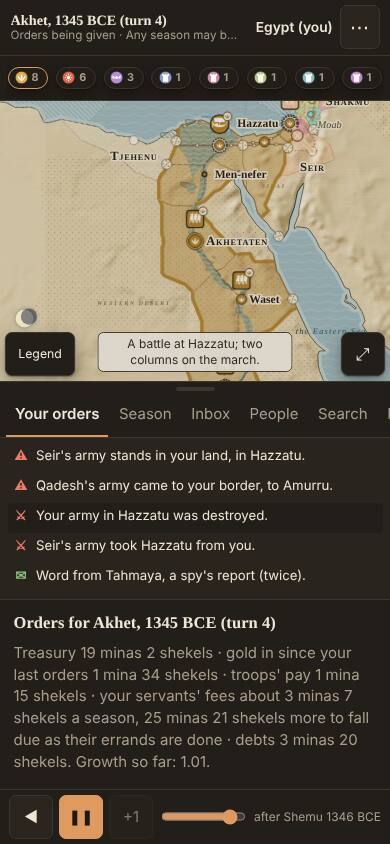
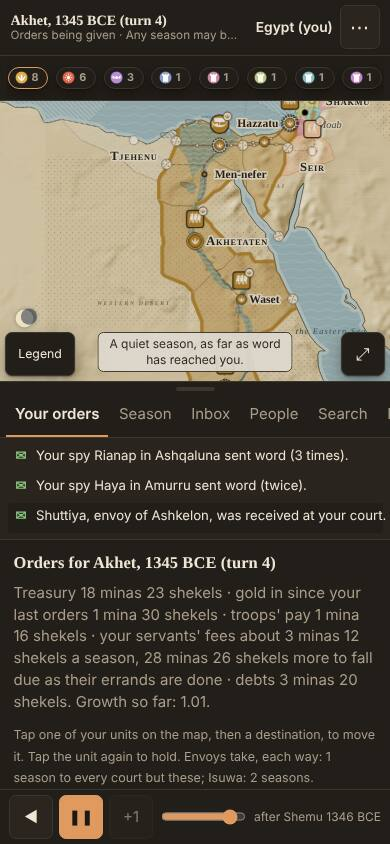
Item 18b, part 1: the design check's and the stand-in's notes (no ending numbers on the start page, the absent kings named, a spy's line says whose and where, word placed at the court, the map in play guarded by a test)
Claude-Session: https://claude.ai/code/session_0118T4FHZseL8sYnPy6XZrwb

Changed region(s): [[0.0308, 0.5237, 0.9846, 0.9242], [0.2769, 0.4005, 0.7077, 0.4313], [0.7077, 0.1232, 0.8308, 0.1848]]

diff --git a/src/engine/src/rules/brief.ts b/src/engine/src/rules/brief.ts
@@ -2,7 +2,7 @@
  * The season brief ("The player's screen", build order item 18b, "Four questions, in order": what happened to me?): at most
  * six lines, most urgent first, of what this season brought the seat. A foreign army in its land or at its border, a
  * battle of its own, a letter or envoy waiting, a promise kept or broken, an errand done, gold or grain running short; the
- * world's other moves stay in the season's record. Drawn from the seat's own view alone, so it says only what the court
+ * world's other moves stay in the season's news. Drawn from the seat's own view alone, so it says only what the court
  * knows, and the one source of both the screen's brief and the model's request ("A model seat reads the same"): each line
  * names its place, and what answers it, for the screen to jump to.
  */
@@ -19,7 +19,7 @@ import { upper } from "./wording.ts";
 export const BriefKindValues = ["Threat", "Battle", "Word", "Promise", "Errand", "Short"] as const;
 export type BriefKind = (typeof BriefKindValues)[number];
 
-/** What answers a line: the seat's troops, the season's record (its news), its court and servants, or its treasury. */
+/** What answers a line: the seat's troops, the season's news, its court and servants, or its treasury. */
 export const BriefAnswerValues = ["Troops", "News", "Court", "Treasury"] as const;
 export type BriefAnswer = (typeof BriefAnswerValues)[number];
 
@@ -32,7 +32,7 @@ export interface BriefLine {
   answer: BriefAnswer;
 }
 
-/** The most lines a brief holds; past it, the last says how many more wait in the season's record. */
+/** The most lines a brief holds; past it, the last says how many more wait in this season's news. */
 export const MaxBrief = 6;
 
 const name = (id: string): string => WorldMap.default.get(id).name;
@@ -92,9 +92,10 @@ export function seasonBrief(v: SeatView): BriefLine[] {
   }
 
   // The season's news that waits on the king: a letter or envoy, a promise kept or broken, an errand done.
+  // Word and errands come to the court, where the map shows them; a promise of gold has no one place.
   for (const i of v.inbox) {
-    const line = newsLine(i);
-    if (line !== null) add(line.kind, line.text, null, line.answer);
+    const line = newsLine(i, v);
+    if (line !== null) add(line.kind, line.text, line.kind === "Promise" || v.courtAt === "" ? null : v.courtAt, line.answer);
   }
 
   // Gold or grain running short.
@@ -121,18 +122,23 @@ export function seasonBrief(v: SeatView): BriefLine[] {
   const sorted = merged.map((l, i) => [l, i] as const).sort((a, b) => order(a[0].kind) - order(b[0].kind) || a[1] - b[1]).map(([l]) => l);
   if (sorted.length <= MaxBrief) return sorted;
   const rest = sorted.length - (MaxBrief - 1);
-  return [...sorted.slice(0, MaxBrief - 1), { kind: sorted[MaxBrief - 1].kind, text: `And ${rest} more this season, in the season's record.`, at: null, answer: "News" }];
+  return [...sorted.slice(0, MaxBrief - 1), { kind: sorted[MaxBrief - 1].kind, text: `And ${rest} more in this season's news.`, at: null, answer: "News" }];
 }
 
-/** A line of the season's news for the brief, by its kind and title, or null for what stays in the record. */
-function newsLine(i: InboxItem): { kind: BriefKind; text: string; answer: BriefAnswer } | null {
+/** A line of the season's news for the brief, by its kind and title, or null for what stays in the news alone. */
+function newsLine(i: InboxItem, v: SeatView): { kind: BriefKind; text: string; answer: BriefAnswer } | null {
   switch (i.kind) {
     case "Audience":
       return { kind: "Word", text: `${i.title.replace(/^Audience with /u, "")}, was received at your court.`, answer: "News" };
     case "EnvoyReport":
       return { kind: "Word", text: `${i.title} with his report.`, answer: "News" };
-    case "SpyReport":
-      return { kind: "Word", text: `${i.title}, a spy's report.`, answer: "News" };
+    case "SpyReport": {
+      // Who sent it, and where the court posted him, as its own servants' list says.
+      const spy = [...v.court, ...v.known].find((c) => c.id === i.subject) ?? null;
+      const post = spy?.errandWhere ?? null;
+      const at = post === null ? "" : WorldMap.default.exists(post) ? ` in ${name(post)}` : ` at ${powerName(post)}`;
+      return { kind: "Word", text: spy !== null ? `Your spy ${spy.name}${at} sent word.` : `${i.title}, a spy's report.`, answer: "News" };
+    }
     case "Tablet":
       return { kind: "Word", text: "A tablet you ordered is ready.", answer: "News" };
     case "Candidates":
@@ -152,7 +158,7 @@ const PromiseTitles: ReadonlySet<string> = new Set(["A debt repaid to you", "A d
 /** The notices of an errand done or ended: a servant home or gone, an envoy let go, and gold brought home. */
 const ErrandTitles: ReadonlySet<string> = new Set(["Agent returns", "Gold brought home", "A servant leaves", "Envoy released"]);
 
-/** A notice's first sentence, which names who and what: the rest stays in the season's record. */
+/** A notice's first sentence, which names who and what: the rest stays in the season's news. */
 function firstSentence(body: string): string {
   const end = body.search(/[.!?](\s|$)/u);
   return end < 0 ? `${body.trim()}.` : body.slice(0, end + 1).trim();

diff --git a/src/game/test/first-game.test.ts b/src/game/test/first-game.test.ts
@@ -1,5 +1,5 @@
 import { describe, test } from "vitest";
-import { FirstGameAbsent, FirstGamePowers, Views, firstGameConfig, isFirstGame, newGame, newGameConfig } from "@amarna/engine";
+import { FirstGameAbsent, FirstGamePowers, TurnEngine, Views, WorldMap, firstGameConfig, isFirstGame, newGame, newGameConfig } from "@amarna/engine";
 import { GameRunner, ScriptMind, TemplateNarrator, playGame } from "@amarna/game";
 import { Assert } from "../../engine/test/support.ts";
 import { scriptSeats } from "./small-world.ts";
@@ -24,6 +24,20 @@ describe("FirstGameTests", () => {
     Assert.contains("Egypt, Hatti and Mitanni hold their thrones", s.events[0].text);
     // The short curve, with a cap near thirty.
     Assert.true(s.finalSeason !== null && s.finalSeason <= 32);
+  });
+
+  // The map in play is set by each game as it begins and as its engine is built, so games of both kinds in one process
+  // ("Same seed, same game") never play on each other's map.
+  test("A first game and a full game in one process each play on their own map", () => {
+    const first = newGame(2, firstGameConfig());
+    Assert.true(WorldMap.default.outside.size > 0);
+    Assert.true(WorldMap.default.isAbsent("Babylonia"));
+    const full = newGame(2);
+    Assert.equal(0, WorldMap.default.outside.size);
+    Assert.true(new TurnEngine(first).map.landProvinces.length < WorldMap.full.landProvinces.length);
+    Assert.true(WorldMap.default.isAbsent("Babylonia"));
+    new TurnEngine(full);
+    Assert.false(WorldMap.default.isAbsent("Babylonia"));
   });
 
   test("The first game plays to its end and replays exactly", async () => {

diff --git a/src/engine/src/rules/first-game.ts b/src/engine/src/rules/first-game.ts
@@ -71,10 +71,10 @@ export function isFirstGame(c: GameConfig): boolean {
 
 /**
  * Leaves the absent powers out of a new game, before its first season: their land unruled and long known so to every
- * court, their troops, tablets, debts and claims gone, their people with them (a servant of a present court standing at
- * an absent one is at home instead), and every present court's ties and every province's loyalty to them gone. The walls
- * and the people of their land stay where they are, since the land itself is still there; nobody keeps its works, as
- * nobody orders them kept. Every court starts knowing who is in the game: an absent power is no news, and no fall.
+ * court, and beyond the map the game is played on (`WorldMap.play`), so nothing moves, travels, grows or rises there;
+ * their troops, tablets, debts and claims gone, their people with them (a servant of a present court standing at an
+ * absent one is at home instead), and every present court's ties and every province's loyalty to them gone. Every court
+ * starts knowing who is in the game: an absent power is no news, and no fall.
  */
 export function leaveOut(s: GameState, m: WorldMap, absent: readonly Power[]): void {
   const out = new Set(absent);

diff --git a/src/web/src/components/GameChoice.tsx b/src/web/src/components/GameChoice.tsx
@@ -8,14 +8,14 @@ const Games: readonly { id: GameKind; name: string; text: string; length: string
   {
     id: "first",
     name: "The first game",
-    text: "Egypt, Hatti and Mitanni, with the cities of Syria and Canaan and the chiefs between them; the other powers are absent. Every rule as in the full game.",
-    length: "an evening: the age often ends in about 20 seasons, never past about 30",
+    text: "Egypt, Hatti and Mitanni, with the cities of Syria and Canaan and the chiefs between them; Babylonia, Assyria, Arzawa and Alashiya sit this one out. Every rule as in the full game.",
+    length: "an evening: a short age",
   },
   {
     id: "full",
     name: "The full game",
     text: "All seven Great Kings and every city-state and chief between them, on the whole map.",
-    length: "a few evenings: the age often ends in about 80 seasons",
+    length: "a few evenings: a long age",
   },
 ];
 

diff --git a/src/web/src/styles/brief.css b/src/web/src/styles/brief.css
@@ -1,4 +1,4 @@
-/* The season brief (item 18b): what this season brought the seat, above the panel's tabs while its orders are open. Each
+/* The season brief (item 18b): what this season brought the seat, under the panel's tabs while its orders are open. Each
    line has its own icon and word as well as its colour; the colours are the theme's own tokens, so dark mode follows. */
 .brief { flex: none; border-bottom: 1px solid var(--line); padding: .35rem .5rem .4rem; background: var(--paper); max-height: 40%; overflow: auto; }
 .brief ul { list-style: none; margin: 0; padding: 0; }

diff --git a/src/web/src/components/SeasonBrief.tsx b/src/web/src/components/SeasonBrief.tsx
@@ -3,7 +3,7 @@ import { briefRows, type BriefRow } from "../ui/brief.ts";
 import { shown } from "../ui/names.ts";
 
 /**
- * The season brief (item 18b): at most six lines of what this season brought the seat, most urgent first, above the
+ * The season brief (item 18b): at most six lines of what this season brought the seat, most urgent first, under the
  * panel's tabs while its orders are open. A tap on a line shows its place on the map and opens what answers it.
  */
 export function SeasonBrief({ view, onLine }: { view: SeatView; onLine: (row: BriefRow) => void }) {

diff --git a/src/engine/src/model/config.ts b/src/engine/src/model/config.ts
@@ -20,7 +20,7 @@ export interface GameConfig {
   openAge: boolean;
   /**
    * The powers the map starts with that are absent from this game (item 18b, "The first game"): left out before its first
-   * season, their land unruled (`rules/first-game.ts`). None in the full game.
+   * season, their land beyond the game's map (`rules/first-game.ts`). None in the full game.
    */
   absent: string[];
   /**

diff --git a/docs/rounds/2026-11-19-players-screen-1.md b/docs/rounds/2026-11-19-players-screen-1.md
@@ -12,7 +12,7 @@ and read.
   cap drawn from 28 to 32. A table setting, `GameConfig.absent`, empty in the full game.
 - **The absent land lies beyond the first game's map** (`WorldMap.play`): no road leads there, and nothing grows, moves
   or rises in it. The seat view, the request and the rulebook's opening leave the absent powers out.
-- **The season brief**, the first of the four questions: at most six lines, most urgent first, above the panel's tabs
+- **The season brief**, the first of the four questions: at most six lines, most urgent first, under the panel's tabs
   while the seat's orders are open, each line with its icon and word, a tap showing its place on the map and opening
   what answers it. The model's orders request gives the same lines in the same order, from the same function, and a test
   fails where they differ.
@@ -25,14 +25,15 @@ The start page, before and after (desktop light, phone dark):
 ![Before: the start page](<media/2026-11-19-players-screen-1/before-desktop-light-start.jpg>) ![After: "Which game?" first](<media/2026-11-19-players-screen-1/after-desktop-light-start.jpg>)
 ![Before, phone dark](<media/2026-11-19-players-screen-1/before-phone-dark-start.jpg>) ![After, phone dark](<media/2026-11-19-players-screen-1/after-phone-dark-start.jpg>)
 
-Egypt's fourth season, before (the full game, no brief) and after (the first game, its brief above the tabs), at each size
-and in each theme; and a line tapped (desktop light): the map at Hazzatu and the orders at the troops.
+Egypt's fourth season, before (the full game, no brief) and after (the first game, its brief under the tabs), at each size
+and in each theme (each a game of its own, so its season differs); and a battle line tapped (desktop dark): the map at
+Hazzatu and the orders at the troops.
 
 ![Before, phone light](<media/2026-11-19-players-screen-1/before-phone-light-season.jpg>) ![After, phone light](<media/2026-11-19-players-screen-1/after-phone-light-season.jpg>)
 ![Before, phone dark](<media/2026-11-19-players-screen-1/before-phone-dark-season.jpg>) ![After, phone dark](<media/2026-11-19-players-screen-1/after-phone-dark-season.jpg>)
 ![Before, desktop light](<media/2026-11-19-players-screen-1/before-desktop-light-season.jpg>) ![After, desktop light](<media/2026-11-19-players-screen-1/after-desktop-light-season.jpg>)
 ![Before, desktop dark](<media/2026-11-19-players-screen-1/before-desktop-dark-season.jpg>) ![After, desktop dark](<media/2026-11-19-players-screen-1/after-desktop-dark-season.jpg>)
-![A line tapped](<media/2026-11-19-players-screen-1/after-desktop-light-tapped.jpg>)
+![A line tapped](<media/2026-11-19-players-screen-1/after-desktop-dark-tapped.jpg>)
 
 ## Measured in script games
 
@@ -64,7 +65,7 @@ Unsure first.
   and Azzi, beyond Hatti rather than between the three, are out, as are western Anatolia, Alashiya, Libya, Terqa,
   Arrapha and Elam. Rests on the map's capitals. A call of geography and taste for the owner.
 - **The ending:** a median of 20 seasons and a cap drawn from 28 to 32, the section's "first guesses".
-- **The brief shows while the seat's orders are open**, above the tabs; for a seat watched, it comes with the part
+- **The brief shows while the seat's orders are open**, under the tabs; for a seat watched, it comes with the part
   "Watching a seat". Rests on the section's order of parts.
 - **"A foreign army at its border"** is troops that came there last season: the brief answers "what happened to me?",
   and an army that has stood at home next door all game is no news (the seal button's own wording, "newly in sight",
@@ -74,9 +75,11 @@ Unsure first.
 - **The rulebook's general sections** (the courts' languages, par) still describe every court of the age; its opening says
   which are absent from the first game and that their lands are beyond its map.
 - **The request changed, so the save version is 96.** It was tried with script stand-ins only; the free local model was
-  not run in this cloud session.
+  not run in this cloud session, and its trial is queued on 18b's row in the progress file.
 - **The live design document refused this session** (by role), so the copy was used and, before the PR was marked
   ready, `docs/intent` on `main` was compared with c5cda6b, where the part began.
+- **The start page names no number for the ending** (the stand-in, sure: the cap is secret, and a model king reads the
+  ending in words): "an evening: a short age" and "a few evenings: a long age".
 - **The pictures are in `docs/rounds/media/`**, since this session may push only to its own branch (the polish lane
   keeps its pictures on a branch of their own).
 
@@ -89,6 +92,18 @@ Unsure first.
 - **One fight can take three lines** (troops in the land, a unit destroyed, the place taken); merging them is for the
   next part's brief work, with "what waits" counted on the seal button.
 - **The first game's winners** (all city-states in eight games): item 18.
+
+## Reviews
+
+- **The design check** (a fresh reviewer): passes the design, nothing blocking. Done from it: word and errand lines placed
+  at the court's seat, the overflow line naming the request's own "news" rather than a "record" it has no section for,
+  two comments that still said "unruled", a test that a first game and a full game in one process each play on their own
+  map, and the owed work queued in the progress file. Left for later parts: a word line opening its own report rather than
+  the inbox's top (with "What waits for my answer").
+- **The stand-in's notes:** no ending numbers on the start page; the absent Great Kings named on the first game's card;
+  the brief's place said as it is (under the tabs, not above); a spy's line saying whose spy and where ("Your spy Haya
+  in Amurru sent word"); the tapped picture retaken on a battle line. The stand-in agreed with every reading but the
+  untried local model, now queued.
 
 ## Next
 

diff --git a/docs/design/62-the-players-screen.md b/docs/design/62-the-players-screen.md
@@ -46,17 +46,19 @@ brought the seat, from its own view alone (`seasonBrief` in `src/engine/src/rule
    land last season (troops that merely stand at its border, in their own land or another's, are no news).
 2. **Battle:** last season's, its own: a unit destroyed or beaten back, its attacks that took land or failed, and attacks
    on its land, held off or not.
-3. **Word:** an envoy received at its court, an envoy or spy home with a report, a tablet ready.
+3. **Word:** an envoy received at its court, an envoy home with a report, a spy's word ("Your spy Tahmaya at Hatti sent
+   word"), a tablet ready.
 4. **Promise:** a debt repaid, to it or by it, or past its season unpaid; a servant's fee paid, or fallen due unpaid.
 5. **Errand:** a servant home or gone, an envoy let go, gold brought home, a candidate seeking service.
 6. **Short:** the treasury below a season's pay of troops, works and servants; its troops hungry or unpaid; its people
    short of grain.
 
-Past six lines, the sixth says how many more wait in the season's record. Each line names its place, for the map, and what
+Past six lines, the sixth says how many more wait in this season's news. Each line names its place, for the map (the court's
+seat for word and errands), and what
 answers it: the troops, the court or the treasury in the orders, or the season's news in the inbox.
 
 **One source for the screen and the request** ("A model seat reads the same"): the screen shows `seasonBrief`'s lines
-above the panel's tabs while the seat's orders are open (`SeasonBrief.tsx`, rows by `src/web/src/ui/brief.ts`), each
+under the panel's tabs while the seat's orders are open (`SeasonBrief.tsx`, rows by `src/web/src/ui/brief.ts`), each
 with its own icon and word as well as its colour; a tap shows its place on the map and opens what answers it. The model's
 orders request gives the same lines in the same order under "SEASON BRIEF", right after the season (`briefText` in
 `src/llm/src/prompts.ts`). `src/web/test/season-brief.test.ts` fails where the two differ. The page shows the lines in

diff --git a/docs/BUILD-PROGRESS.md b/docs/BUILD-PROGRESS.md
@@ -194,7 +194,7 @@ Each item's text is its brief (`docs/intent/build-order/`); the summaries these 
 |---|---|---|---|---|
 | 18 | The balance pass | in progress, in parts: A to F2 merged (#828 to #845, #895; save version 94), F3 merged (#899: use against ignore; grain sold at any price; a paying vassal weighed as any king); F3's rest done (save version 95; par again on 938ba68, the features left, 17++ A and D, seeds 101-200 for the close rows; a small king keeps a plain peace as a bar to his war of choice; vassal play still behind); next, by the F3 report's "Split, and where to pick up" and the F3 rest report's "Left to the next part": F4 (the bold road, commit f2e973c; Arzawa), F5 (17+'s people, positions, banditry, commanders), then stop for review | `item/balance-f3-rest` | `docs/rounds/2026-11-12-balance-pass-f3-rest.md` |
 | 18a | The world in graphs | not started | | |
-| 18b | The player's screen (a lane beside item 18) | in progress, in the parts "The player's screen" gives: part 1, the first game and the season brief | `item/players-screen-1` | `docs/rounds/2026-11-19-players-screen-1.md` |
+| 18b | The player's screen (a lane beside item 18) | in progress, in the parts "The player's screen" gives: part 1, the first game and the season brief; owed: the changed request tried with the free local model, the absent land drawn as beyond the map (with "The map does the showing"); for item 18: every first-game winner a city-state (8 of 8) | `item/players-screen-1` | `docs/rounds/2026-11-19-players-screen-1.md` |
 | 19+ | Answers to 19's review | not started | | |
 | 19++ | The visual pass | not started | | |
 

diff --git a/README.md b/README.md
@@ -20,12 +20,12 @@ said at the foreign court, and what the envoy reported home. The gaps between th
 
 Choose a game, pick a preset, choose whether to watch or take a seat, and begin. **The first game**, offered first, is
 for an evening: Egypt, Hatti and Mitanni and the cities and chiefs of Syria and Canaan between them, the other powers
-absent and their lands beyond the map, and an age that often ends in about 20 seasons. **The full game** has all seven
+absent and their lands beyond the map, and a short age. **The full game** has all seven
 Great Kings (Egypt, Hatti, Babylonia, Mitanni, Assyria, Arzawa and Alashiya) and the forty city-states and chiefs
 between them, over a few evenings. Every rule is the same in both. You can be a Great King or one of the city-states
 and chiefs, a harder start that can still win. It is built phone first, and games are saved in the browser.
 
-While your orders are open, the season brief above the panel says in a few lines what this season brought you, most
+While your orders are open, the season brief under the panel's tabs says in a few lines what this season brought you, most
 urgent first; tap a line to see its place on the map and open what answers it.
 
 The **Free** preset needs no key and costs nothing: every king and envoy is a script player. To have Claude play the

diff --git a/docs/design/61-the-rules-a-player-reads/03-winning-and-the-end.md b/docs/design/61-the-rules-a-player-reads/03-winning-and-the-end.md
@@ -13,8 +13,7 @@ percent by default). The dead rank below the living, by what they held when they
 king or character.
 
 Any season may be the last. Early on the end is very unlikely; it grows likelier every year, and half of all games
-are over by 1320 BCE, about season 80 (in the first game, half are over by about season 20, and none runs past about
-season 30). The last season is drawn in secret when the game begins: nobody can read it, and
+are over by 1320 BCE, about season 80 (in the first game, about season 20). The last season is drawn in secret when the game begins: nobody can read it, and
 your court's omens darken as it nears. A table can change how long games run, or play on with no end at all.
 
 A king is a person. He may travel without his court, commanding from where he is, near the front and at the risk of his
